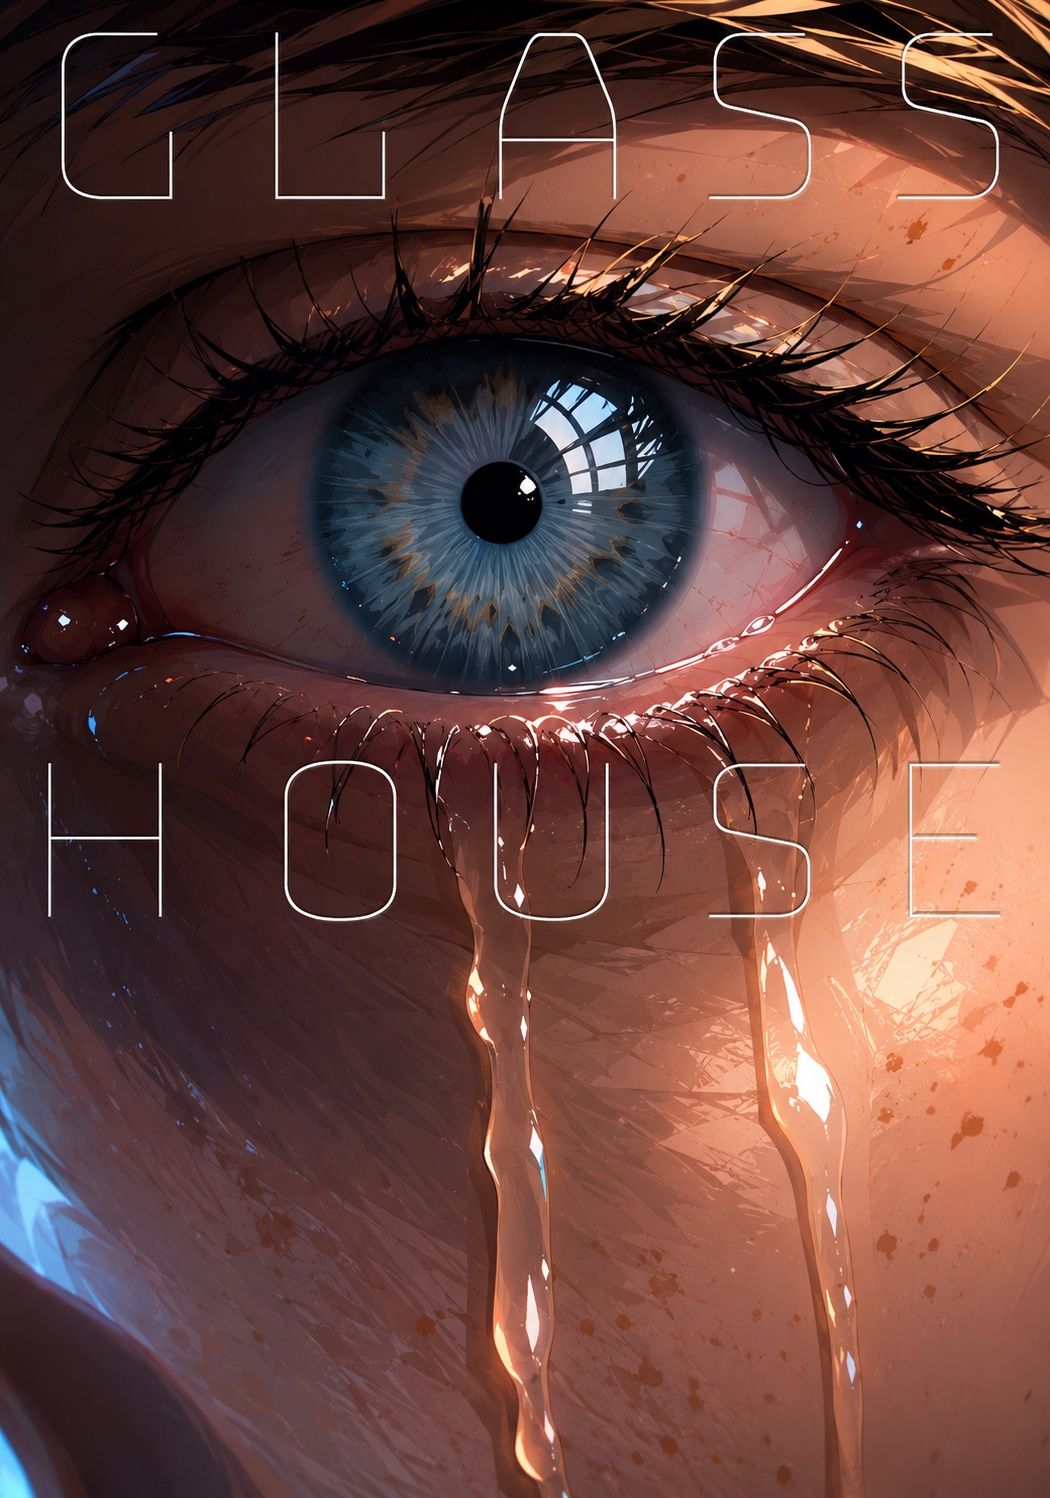
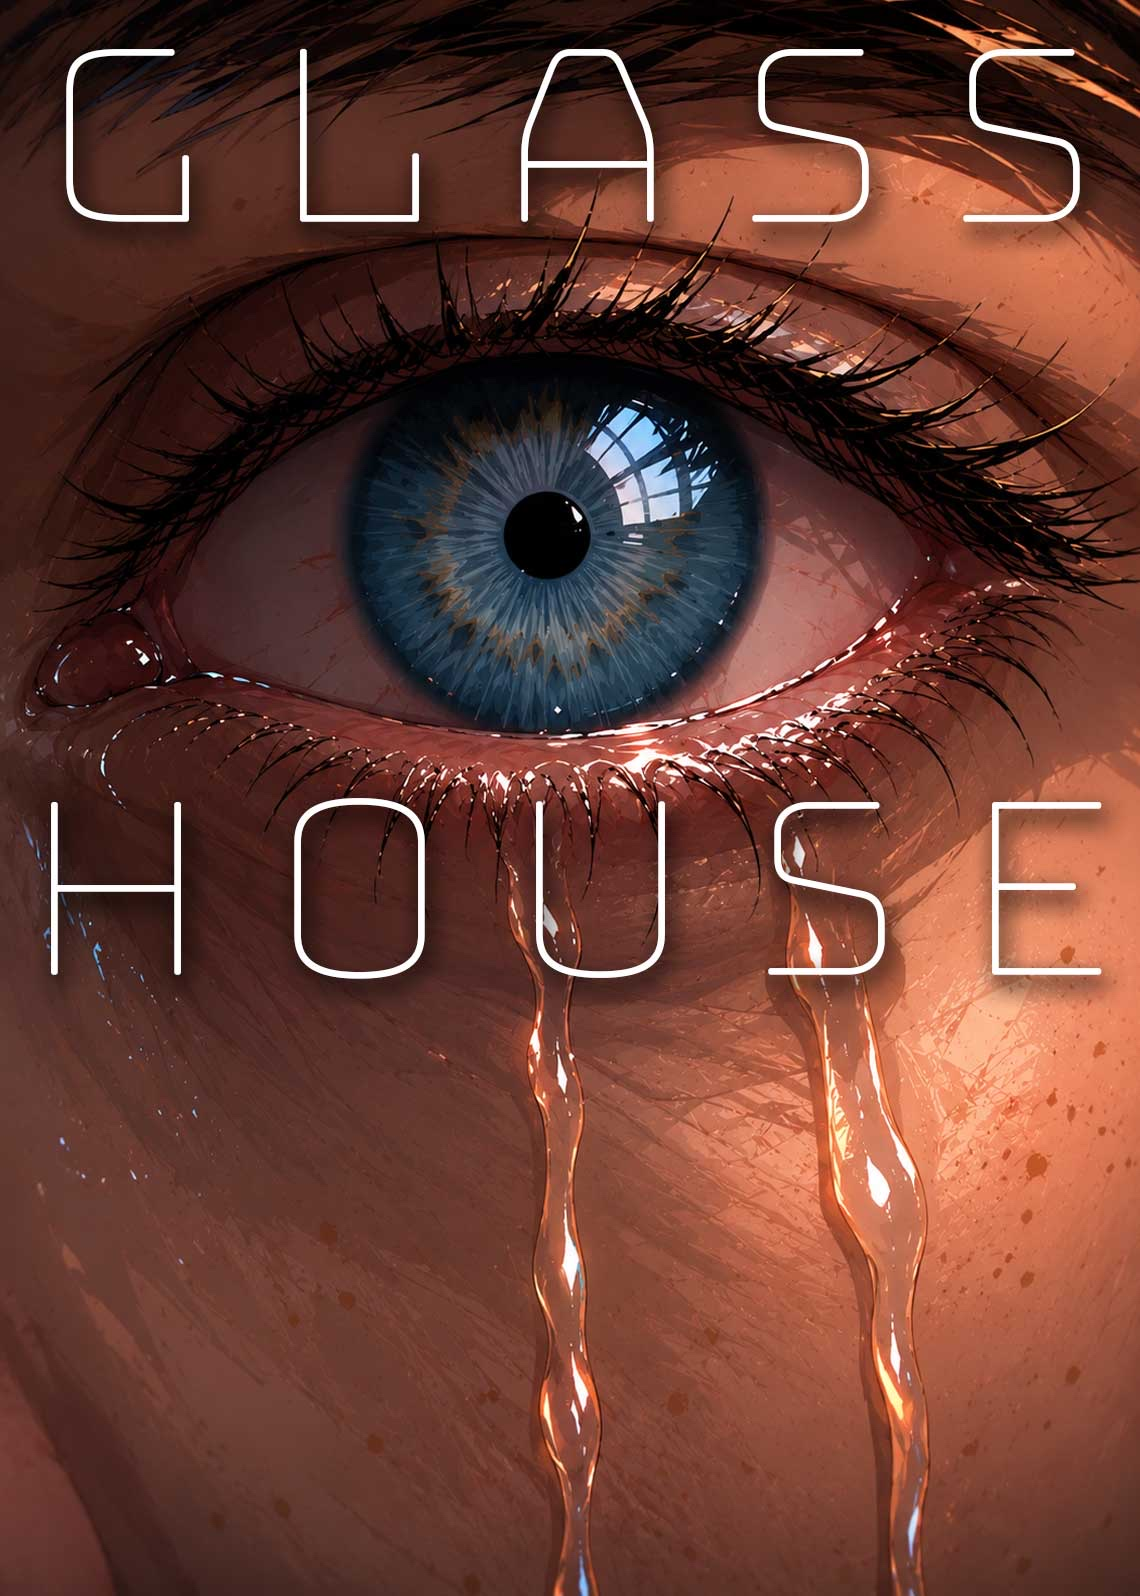
feat(covers): update Glass House front cover art (RT-title render)
Swapped the Glass House front cover to the newest render (1140x1596, q92, same
path). Cache-bust bumped. Verified live: loads clean (not cover-pending), fills
the full zoom face with no outline and clean gold triangle.

Cache-bust: cover ?v=20260705c, app.js?v=20260705-gh-art3

diff --git a/public/index.html b/public/index.html
@@ -2527,7 +2527,7 @@
 <script src="/orchestration-client.js?v=20260628-opening-temp-tighten"></script>
 <script src="/badgeEngine.js?v=20260609-badge-error-surface"></script>
 <script src="/relational-shape-classifier.js?v=20260525-shared-authority"></script>
-<script src="/app.js?v=20260705-gh-back"></script>
+<script src="/app.js?v=20260705-gh-art3"></script>
 <script src="/card-designer.js?v=20260318c"></script>
 <script>
   /* BEGIN-STORY WRAPPER VIEWPORT-CENTER PORTAL